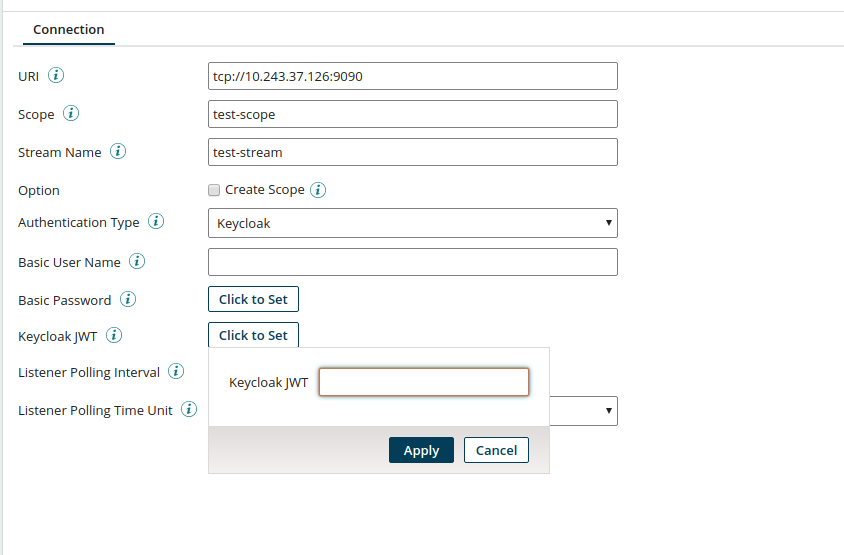
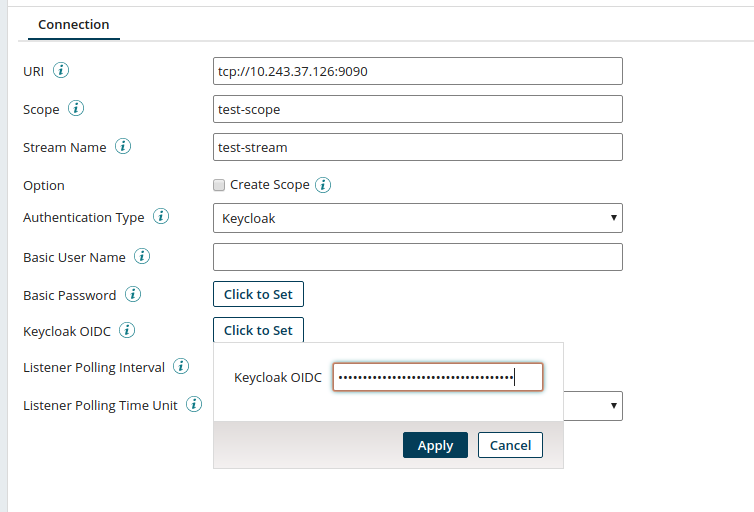
updated all docs after review

Changed region(s): [[0.0, 0.125, 0.8236, 0.9062], [0.0, 0.0, 1.0, 0.0938], [0.0, 0.125, 0.0915, 0.1562]]

diff --git a/doc/Pravega Connector User's Guide.md b/doc/Pravega Connector User's Guide.md
@@ -56,10 +56,10 @@ _Connector Options_
 - **Scope** : (Required) The Pravega scope containing the data stream.
 - **Stream Name** : (Required) The name of the data stream to read or write.
 - **Create Scope** : When checked, Pravega scope will be automatically created. Only enable this if Pravega is running in stand-alone mode.
-- **Pravega Authentication Type**: Specifies the type of authentication to use with Pravega. "None" means Pravega does not have any authentication enabled (only suitable for development environments). "Basic" means Pravega is running in an independent cluster and has basic auth enabled - this option requires you specify a valid username and password. "Keycloak" means Pravega is integrated with Keycloak (i.e. inside Streaming Data Platform) - this option requires you specify a valid Keycloak JSON Web Token (JWT), which is obtained from the Keycloak server.
+- **Pravega Authentication Type**: Specifies the type of authentication to use with Pravega. "None" means Pravega does not have any authentication enabled (only suitable for development environments). "Basic" means Pravega is running in an independent cluster and has basic auth enabled - this option requires you specify a valid username and password. "Keycloak" means Pravega is integrated with Keycloak (i.e. inside Streaming Data Platform) - this option requires you specify a valid Keycloak OIDC JSON installation file, including Keycloak endpoint and credentials. This is obtained from the Keycloak server.
 - **Basic Username**: An authorized Pravega user. Only used when Authentication Type is set to "Basic".
 - **Basic Password**: The Pravega user's password. Only used when Authentication Type is set to "Basic".
-- **Keycloak JWT**: A valid Keycloak OIDC JSON installation file, including Keycloak endpoint and credentials. This is obtained from the Keycloak server.
+- **Keycloak OIDC**: A valid Keycloak OIDC JSON installation file, including Keycloak endpoint and credentials. This is obtained from the Keycloak server.
 - **Listener Polling Interval** : The Listen operation uses a polling schedule.  This parameter specifies the interval between each poll.  For example, specifying 1 minute means that any Listen operations from this connector would poll for new events every minute.
 - **Listener Polling Time Unit** : The time unit to use for the Listener Polling Interval.  For example, if the Polling Interval is 1 and the Time Unit is Minute, then the Listen operation would poll for new events every 1 Minute.
 

diff --git a/doc/Pravega Connector Getting Started Guide.md b/doc/Pravega Connector Getting Started Guide.md
@@ -23,6 +23,11 @@ and time unit. When finished with the settings, we can check the connection usin
 
 In this example, we are running a Pravega stand-alone server locally on port 9090. We provide a scope, stream name and check the option to create this scope (the connector will automatically create the scope if it doesn't already exist) - note that this option cannot be used with SDP. We also provide a listener polling interval and time unit for listener operations that belong to this connector.  The polling interval will be 10 seconds.  This means that any listener operations will read batches of events from the stream every 10 seconds.
 
+![](SDP_connection.png)
+
+In this example, we are running a Pravega in SDP on port 9090. We provide a scope, stream name and uncheck the option to create this scope (the connector will not automatically create the scope if it doesn't already exist. We need to create scope in SDP UI before creating this connection). We also provide a listener polling interval and time unit for listener operations that belong to this connector.  The polling interval will be 10 seconds.  This means that any listener operations will read batches of events from the stream every 10 seconds. For SDP support, we need to provide keycloak as a authentication type and a valid Keycloak OIDC JSON installation file, including Keycloak endpoint and credentials. This is obtained from the Keycloak server.
+
+
 **Create a Write Operation**
 
 Write is an outbound action to write streaming data in Pravega. Here is an example to create a write operation. We need to specify, which routing key type we will use. &quot;Fixed&quot; means to use the literal value of the Routing Key. For example if we provide &quot;foo&quot; as a fixed Routing key, then &quot;foo&quot; will be used for every event. &quot;JsonReference&quot; means the event data is JSON and the value will be extracted from the body using the Routing Key as a JSON reference (i.e. a value of &quot;myVar&quot; will look for the &quot;myVar&quot; key in the JSON of each event, and use its corresponding value as the routing key for that event).
